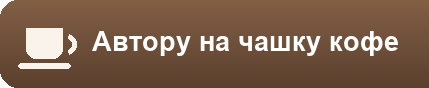
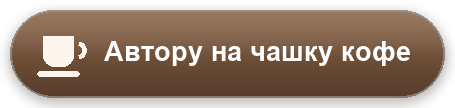
Кнопка поддержки: капсульная форма, мягкий градиент и тень

diff --git a/README.en.md b/README.en.md
@@ -142,7 +142,7 @@ it in the panel and expose the entity again.
 
 The plugin is free and will stay that way. If it came in handy, you can buy the author a coffee:
 
-<a href="https://pay.cloudtips.ru/p/a2eedc67"><img src="docs/coffee-en.png" width="214" alt="Buy the author a coffee"></a>
+<a href="https://pay.cloudtips.ru/p/a2eedc67"><img src="docs/coffee-en.png" width="227" alt="Buy the author a coffee"></a>
 
 Any amount, card payment, no sign-up needed. Note that CloudTips accepts cards issued by Russian
 banks only — international cards will not go through.
